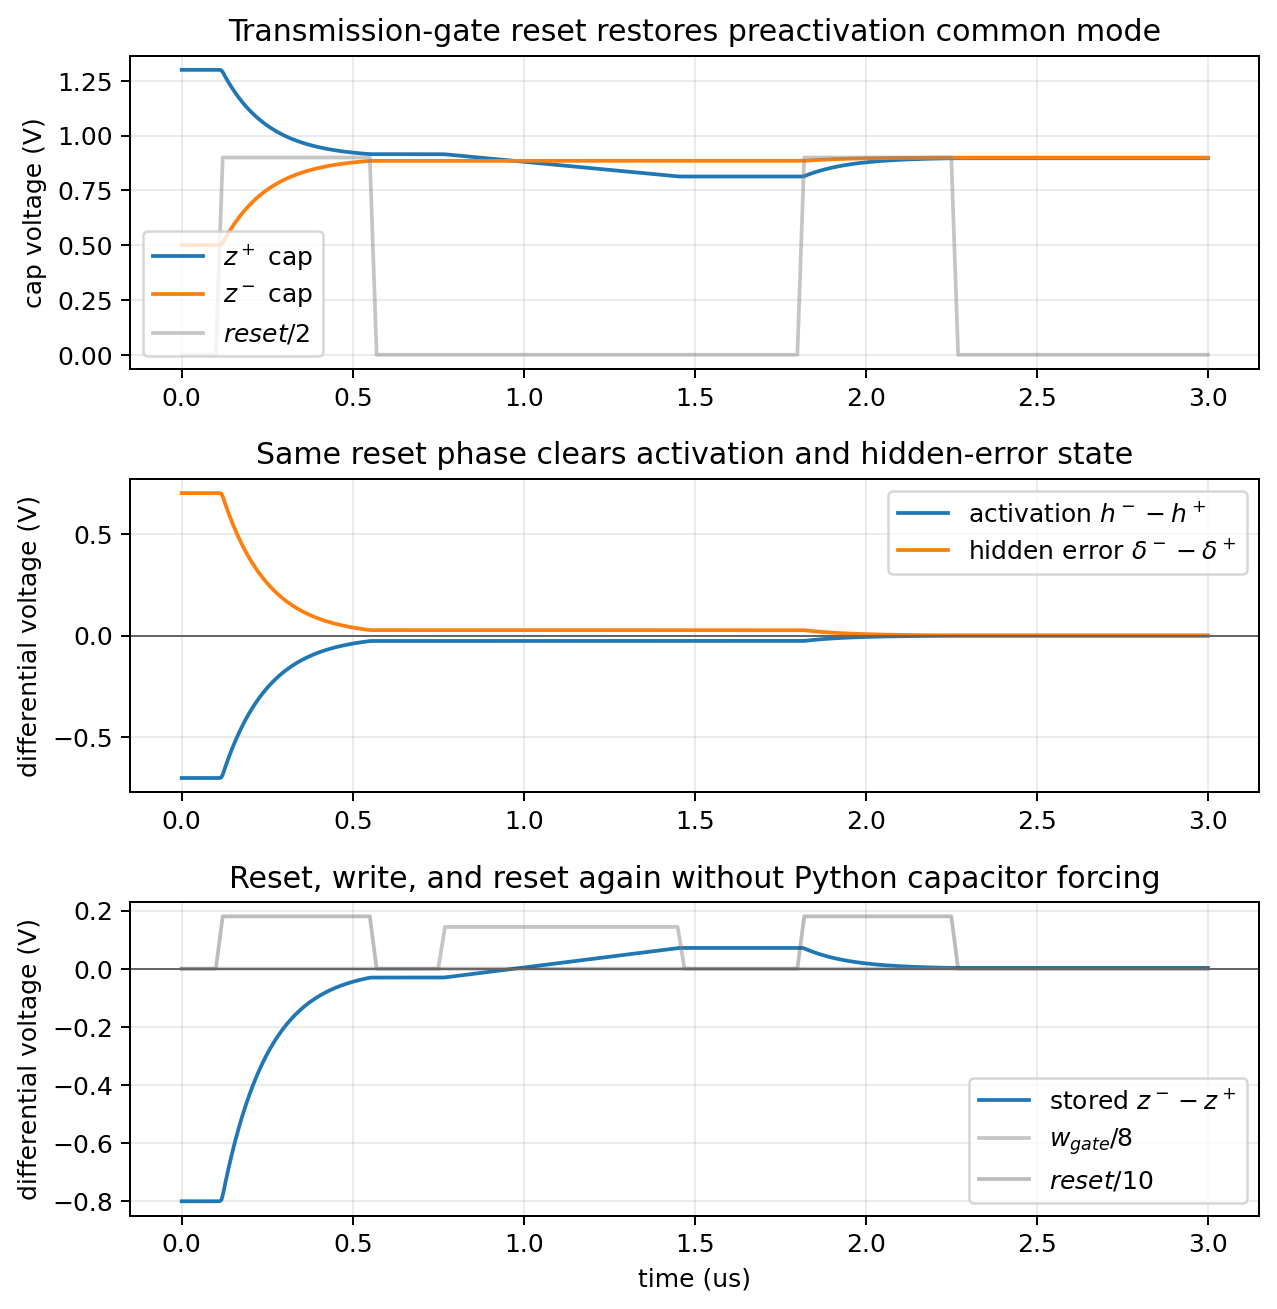
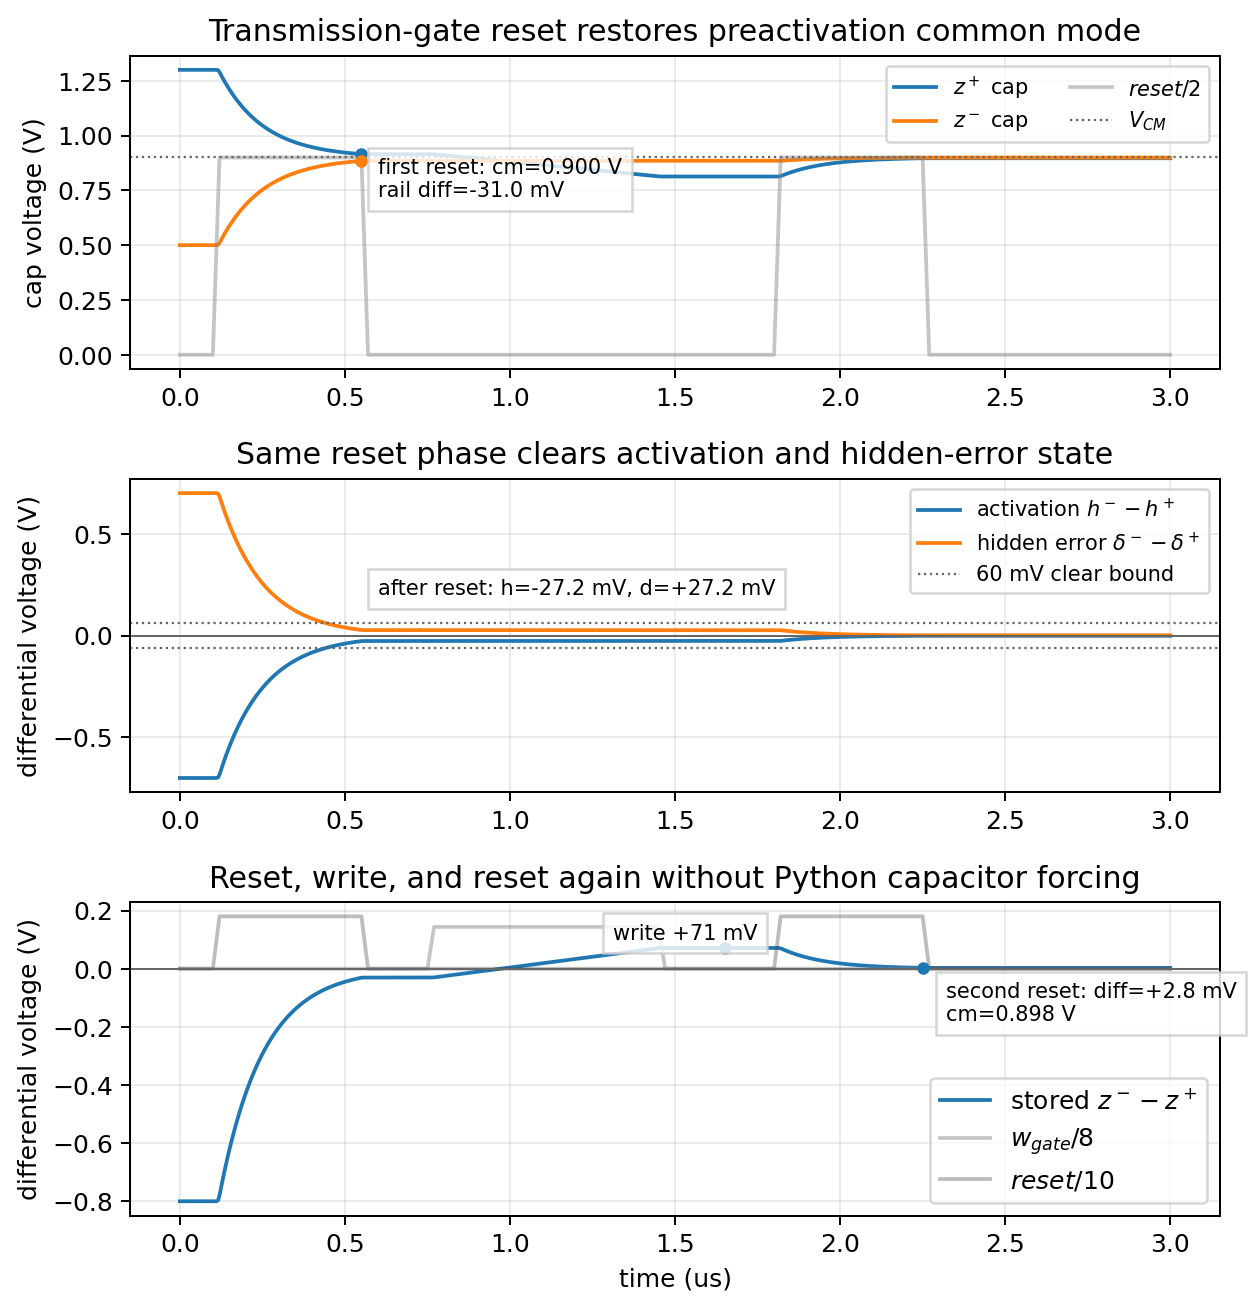
Annotate reset precharge evidence

diff --git a/spice/run_mos_cell_characterization.py b/spice/run_mos_cell_characterization.py
@@ -15970,6 +15970,13 @@ quit
     require(abs(at(2.25e-6, common) - 0.9) < 0.02, "second reset should restore common mode")
     require(abs(at(2.25e-6, h_signed)) < 0.015, "second reset should keep activation state clear")
     require(abs(at(2.25e-6, d_signed)) < 0.015, "second reset should keep hidden-error state clear")
+    first_reset_signed = at(0.55e-6, signed)
+    first_reset_common = at(0.55e-6, common)
+    first_reset_h = at(0.55e-6, h_signed)
+    first_reset_d = at(0.55e-6, d_signed)
+    written_signed = at(1.65e-6, signed)
+    second_reset_signed = at(2.25e-6, signed)
+    second_reset_common = at(2.25e-6, common)
 
     sweep_data = run_ngspice(sweep_deck, "mos_reset_width")
     st, sweep_cols = load_wrdata(sweep_data, 4 * len(widths_us))
@@ -16044,21 +16051,60 @@ quit
     axes[0].plot(1e6 * t, zp, label="$z^+$ cap")
     axes[0].plot(1e6 * t, zm, label="$z^-$ cap")
     axes[0].plot(1e6 * t, rst / 2.0, color="0.5", alpha=0.45, label="$reset/2$")
+    axes[0].axhline(0.9, color="0.4", linestyle=":", linewidth=0.9, label="$V_{CM}$")
+    axes[0].plot(0.55, at(0.55e-6, zp), "o", color="C0", markersize=4)
+    axes[0].plot(0.55, at(0.55e-6, zm), "o", color="C1", markersize=4)
+    axes[0].text(
+        0.60,
+        0.72,
+        f"first reset: cm={first_reset_common:.3f} V\n"
+        f"rail diff={1e3 * first_reset_signed:+.1f} mV",
+        fontsize="small",
+        bbox={"facecolor": "white", "alpha": 0.82, "edgecolor": "0.8"},
+    )
     axes[0].set_ylabel("cap voltage (V)")
     axes[0].set_title("Transmission-gate reset restores preactivation common mode")
     axes[0].grid(True, alpha=0.25)
-    axes[0].legend()
+    axes[0].legend(loc="upper right", ncol=2, fontsize="small")
     axes[1].plot(1e6 * t, h_signed, label="activation $h^- - h^+$")
     axes[1].plot(1e6 * t, d_signed, label="hidden error $\\delta^- - \\delta^+$")
     axes[1].axhline(0, color="0.4", linewidth=0.8)
+    axes[1].axhline(0.06, color="0.4", linestyle=":", linewidth=0.9, label="60 mV clear bound")
+    axes[1].axhline(-0.06, color="0.4", linestyle=":", linewidth=0.9)
+    axes[1].text(
+        0.60,
+        0.20,
+        f"after reset: h={1e3 * first_reset_h:+.1f} mV, "
+        f"d={1e3 * first_reset_d:+.1f} mV",
+        fontsize="small",
+        bbox={"facecolor": "white", "alpha": 0.82, "edgecolor": "0.8"},
+    )
     axes[1].set_ylabel("differential voltage (V)")
     axes[1].set_title("Same reset phase clears activation and hidden-error state")
     axes[1].grid(True, alpha=0.25)
-    axes[1].legend()
+    axes[1].legend(loc="upper right", fontsize="small")
     axes[2].plot(1e6 * t, signed, label="stored $z^- - z^+$")
     axes[2].plot(1e6 * t, wpulse / 8.0, color="0.5", alpha=0.45, label="$w_{gate}/8$")
     axes[2].plot(1e6 * t, rst / 10.0, color="0.25", alpha=0.35, label="$reset/10$")
     axes[2].axhline(0, color="0.4", linewidth=0.8)
+    axes[2].plot(1.65, written_signed, "o", color="C0", markersize=4)
+    axes[2].plot(2.25, second_reset_signed, "o", color="C0", markersize=4)
+    axes[2].text(
+        1.53,
+        written_signed + 0.03,
+        f"write {1e3 * written_signed:+.0f} mV",
+        fontsize="small",
+        ha="center",
+        bbox={"facecolor": "white", "alpha": 0.82, "edgecolor": "0.8"},
+    )
+    axes[2].text(
+        2.32,
+        -0.18,
+        f"second reset: diff={1e3 * second_reset_signed:+.1f} mV\n"
+        f"cm={second_reset_common:.3f} V",
+        fontsize="small",
+        bbox={"facecolor": "white", "alpha": 0.82, "edgecolor": "0.8"},
+    )
     axes[2].set_xlabel("time (us)")
     axes[2].set_ylabel("differential voltage (V)")
     axes[2].set_title("Reset, write, and reset again without Python capacitor forcing")

diff --git a/engineering_log.md b/engineering_log.md
@@ -2,6 +2,16 @@
 
 ## 2026-05-25
 
+- Clarified the reusable MOS reset/precharge plot after the assertion evidence
+  was stronger than the rendered figure.  The same ngspice deck still checks
+  that the transmission-gate reset restores \(z\) common mode, clears
+  activation and hidden-error capacitors, allows a signed write, and clears it
+  again without Python capacitor forcing.  The regenerated
+  `mos_reset_precharge_ngspice` plot now labels those measured checkpoints:
+  first reset common mode is about \(0.900\) V with \(-31.0\) mV rail
+  differential, activation/error residuals are about \(\mp27.2\) mV, the
+  synapse write stores about \(+71\) mV, and the second reset leaves about
+  \(+2.8\) mV differential with \(0.898\) V common mode.
 - Tightened the forward-pair mismatch plot so the rendered ngspice evidence
   carries the same margin as the assertion.  The MOS-only mismatch sweep still
   measures zero-crossing shifts of about \(-20/0/+20\) mV for \(-20/0/+20\)
